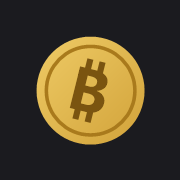
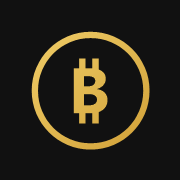
圖示改為黑底金環比特幣（直立）

diff --git a/sw.js b/sw.js
@@ -1,5 +1,5 @@
 /* 記賬 — Service Worker：離線可用。更新 App 檔案後，請把 VERSION 加一。 */
-const VERSION = 'jizhang-v2';
+const VERSION = 'jizhang-v3';
 const ASSETS = [
   './', './index.html', './styles.css', './core.js', './app.js', './manifest.webmanifest',
   './icons/icon-192.png', './icons/icon-512.png', './icons/apple-touch-icon.png',
